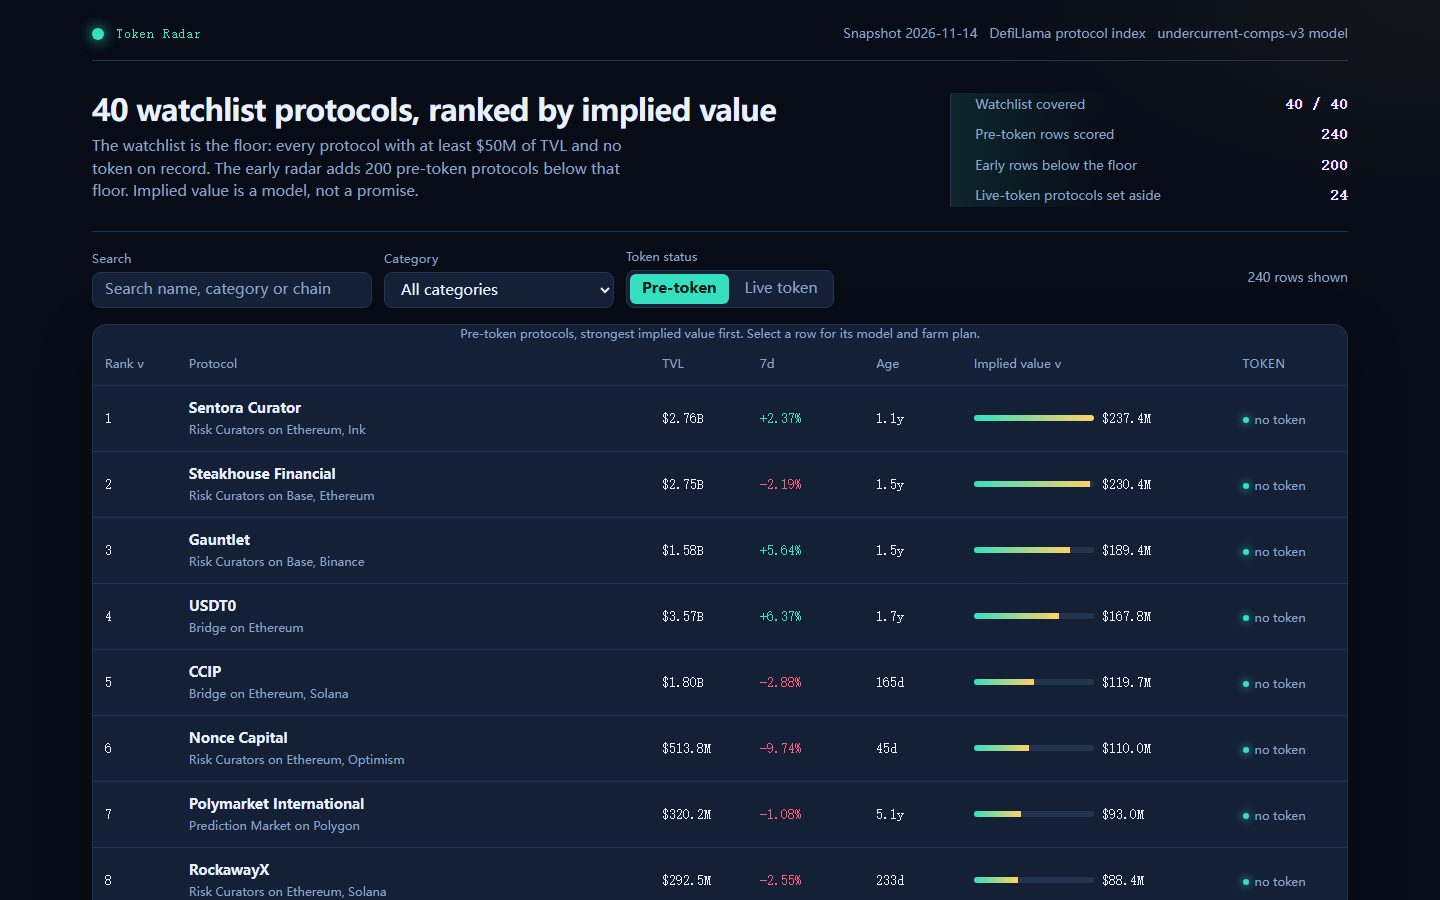
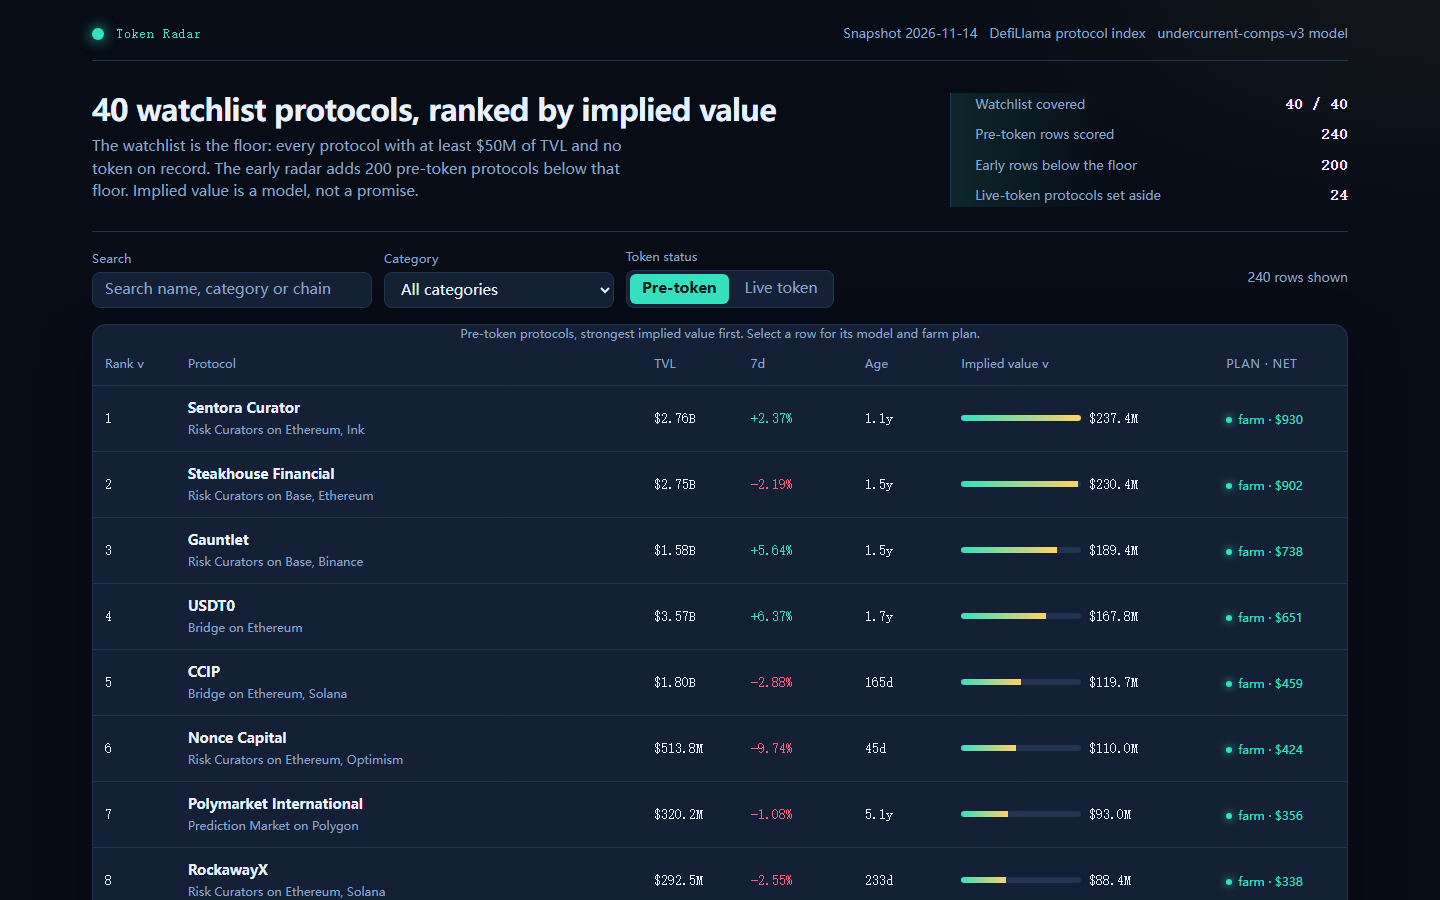
net every farm plan to a farm/thin/skip decision

diff --git a/lib/model.ts b/lib/model.ts
@@ -97,6 +97,8 @@ export interface BoardRow {
     rank_high: number;
   };
   farm_steps: string[];
+  verdict: 'farm' | 'thin' | 'skip';
+  net_usd: number;
 }
 
 export interface RadarRow {
@@ -118,6 +120,8 @@ export interface RadarRow {
   comps: number;
   rank_low: number;
   rank_high: number;
+  verdict: 'farm' | 'thin' | 'skip';
+  net_usd: number;
 }
 
 export interface LiveRow {
@@ -384,6 +388,8 @@ export function buildBoard(snapshot: Snapshot, model: ModelConstants = MODEL, fi
       rank_low: low[i], rank_high: high[i],
     },
     farm_steps: farmSteps(s.p, ageDays(snapshot.as_of, s.p.listed_at), s.implied).map(stepText),
+    verdict: netValue(s.p, s.implied).verdict,
+    net_usd: netValue(s.p, s.implied).net,
   }));
 }
 
@@ -419,19 +425,41 @@ function actionFor(p: SnapshotProtocol, capital: number, chain: string): string 
   return `Deposit $${capital} of USDC into ${name} on ${chain} and keep the position open.`;
 }
 
-/** A six-step farm plan costed to break-even, derived from the protocol's own record. */
+/**
+ * Net a farm position to a decision: farm, thin or skip. The airdrop pool is a stated assumption
+ * (0.2% of implied value shared among an assumed 500 active farmers);
+ * the cost is gas plus the time horizon. Every input is the protocol's own figure or the model's
+ * fitted value, and the assumption is printed in the plan so a reader can change it.
+ */
+export function netValue(p: SnapshotProtocol, implied: number): { verdict: 'farm' | 'thin' | 'skip'; net: number; share: number; cost: number } {
+  const capital = capitalFor(p);
+  // An early-user airdrop of 0.2% of implied value, split among an assumed 500 active farmers.
+  // Both numbers are stated in the plan so a reader can change them; no protocol name is special.
+  const pool = implied * 0.002;
+  const share = pool / 500;
+  const cost = (capital >= 150 ? 8 : 4) + 12;               // gas plus a stated 30-day upkeep allowance
+  const net = Math.round(share - cost);
+  const verdict: 'farm' | 'thin' | 'skip' = net > cost ? 'farm' : net > 0 ? 'thin' : 'skip';
+  return { verdict, net, share: Math.round(share), cost };
+}
+
+/** A six-step farm plan costed to a farm / thin / skip decision, from the protocol's own record. */
 export function farmSteps(p: SnapshotProtocol, age: number | null, implied?: number): FarmStep[] {
   const chain = chainOf(p), capital = capitalFor(p), hold = holdDaysFor(age), action = actionFor(p, capital, chain);
   const gas = capital >= 150 ? 8 : 4;
-  const be = implied !== undefined && implied > 0
-    ? `At the model's $${(implied / 1e6).toFixed(0)}M implied value, a 0.1% airdrop share would be about $${(implied * 0.001 / 1e6).toFixed(0)}M network-wide; weigh that against the $${capital} position before farming.`
-    : `Weigh any tokens received against the $${capital} position before farming.`;
+  const nv = implied !== undefined ? netValue(p, implied) : null;
+  const lead = nv
+    ? `Verdict: ${nv.verdict.toUpperCase()} — estimated airdrop share about $${nv.share} against about $${nv.cost} of gas and upkeep, net about $${nv.net}. Assumption: a 0.2% airdrop pool split among 500 active farmers. Start with a fresh wallet holding only the funds you plan to farm, and keep its seed phrase offline.`
+    : `Verdict: THIN — start with a fresh wallet holding only the funds you plan to farm, and keep its seed phrase offline.`;
+  const be = nv
+    ? `This is a ${nv.verdict} position: net about $${nv.net} under the stated 0.2%-pool / 500-farmer assumption; change that assumption in the model and the verdict moves. Check the protocol's own points page before committing more.`
+    : 'Weigh any tokens received against the position before committing more.';
   return [
-    { text: 'Use a fresh wallet that holds only the funds you plan to farm, and keep its seed phrase offline.', cost: 'under $3 of gas for the first transaction', time: '5 minutes' },
+    { text: lead, cost: 'under $3 of gas for the first transaction', time: '5 minutes' },
     { text: action, cost: `$${capital} of capital and about $${gas} of gas`, time: '15 minutes to set up' },
     { text: 'Make one qualifying action each week, such as a deposit, a borrow, a swap or a vote.', cost: 'about $2 of gas a week', time: '10 minutes a week' },
     { text: `Hold the position for at least ${hold} days so the activity is counted in more than one snapshot.`, cost: `the $${capital} stays in the position`, time: `${hold} days` },
-    { text: be, cost: 'no extra capital; this is the break-even check', time: '2 minutes to work out' },
+    { text: be, cost: 'no extra capital; this is the netted break-even check', time: '2 minutes to work out' },
     { text: "Before you withdraw, open the protocol's own points or rewards page and claim only from the link it publishes.", cost: 'no fee to check, and never pay to claim', time: '10 minutes' },
   ];
 }
@@ -452,6 +480,7 @@ export function radarRow(row: BoardRow): RadarRow {
     growth_multiplier: row.model.growth_multiplier, maturity_multiplier: row.model.maturity_multiplier,
     category_multiple: row.model.category_multiple, size_factor: row.model.size_factor, comps: row.model.comps,
     rank_low: row.model.rank_low, rank_high: row.model.rank_high,
+    verdict: row.verdict, net_usd: row.net_usd,
   };
 }
 

diff --git a/dashboard/app.js b/dashboard/app.js
@@ -245,7 +245,7 @@
           node('div', { class: 'bar', 'aria-hidden': 'true' }, node('i', { style: 'width:' + Math.max(3, Math.round((r.implied_value_usd / ceiling) * 100)) + '%' })),
           node('span', { class: 'num', text: dollars(r.implied_value_usd) })
         )),
-        node('td', null, node('span', { class: 'status', text: 'no token' }))
+        node('td', null, node('span', { class: 'status', style: 'color:' + (r.verdict === 'farm' ? '#35e0c0' : r.verdict === 'skip' ? '#ff5d7a' : '#ffd166'), text: r.verdict + ' · $' + r.net_usd }))
       );
       body.appendChild(row);
     });
@@ -260,7 +260,7 @@
             sortableHead('growth', '7d'),
             sortableHead('age', 'Age'),
             sortableHead('implied', 'Implied value'),
-            node('th', { scope: 'col', text: 'Token' })
+            node('th', { scope: 'col', text: 'Plan · net' })
           )),
           body
         )
@@ -310,6 +310,8 @@
         node('div', null, node('span', { text: 'Bootstrap refits behind rank ranges' }), node('b', { class: 'num', text: String(v.refits) }))
       ),
       node('p', { class: 'sub', text: v.method + '. A wide rank range means the evidence is thin — the board says so rather than hiding it. Wrapped and staked claims on an existing token are excluded from the ranking; the live-token view keeps them as the market\'s own anchors.' }),
+      node('h3', { text: 'Every row is netted: farm, thin or skip' }),
+      node('p', { class: 'sub', text: 'A plan is only useful if it says whether to act. Each row estimates an early-user airdrop at 0.2% of its implied value shared among 500 active farmers, subtracts gas and a 30-day upkeep allowance, and labels the position farm (net above cost), thin (net positive) or skip (net negative). The Plan column shows that net in dollars; the assumption is printed in every farm plan so a reader can change it and the verdict moves with it.' }),
       node('h3', { text: 'Top 5 — the arithmetic behind each value' }),
       node('div', { class: 'equation' }, radar.rows.slice(0, 5).map(function (r) {
         return node('div', null,
